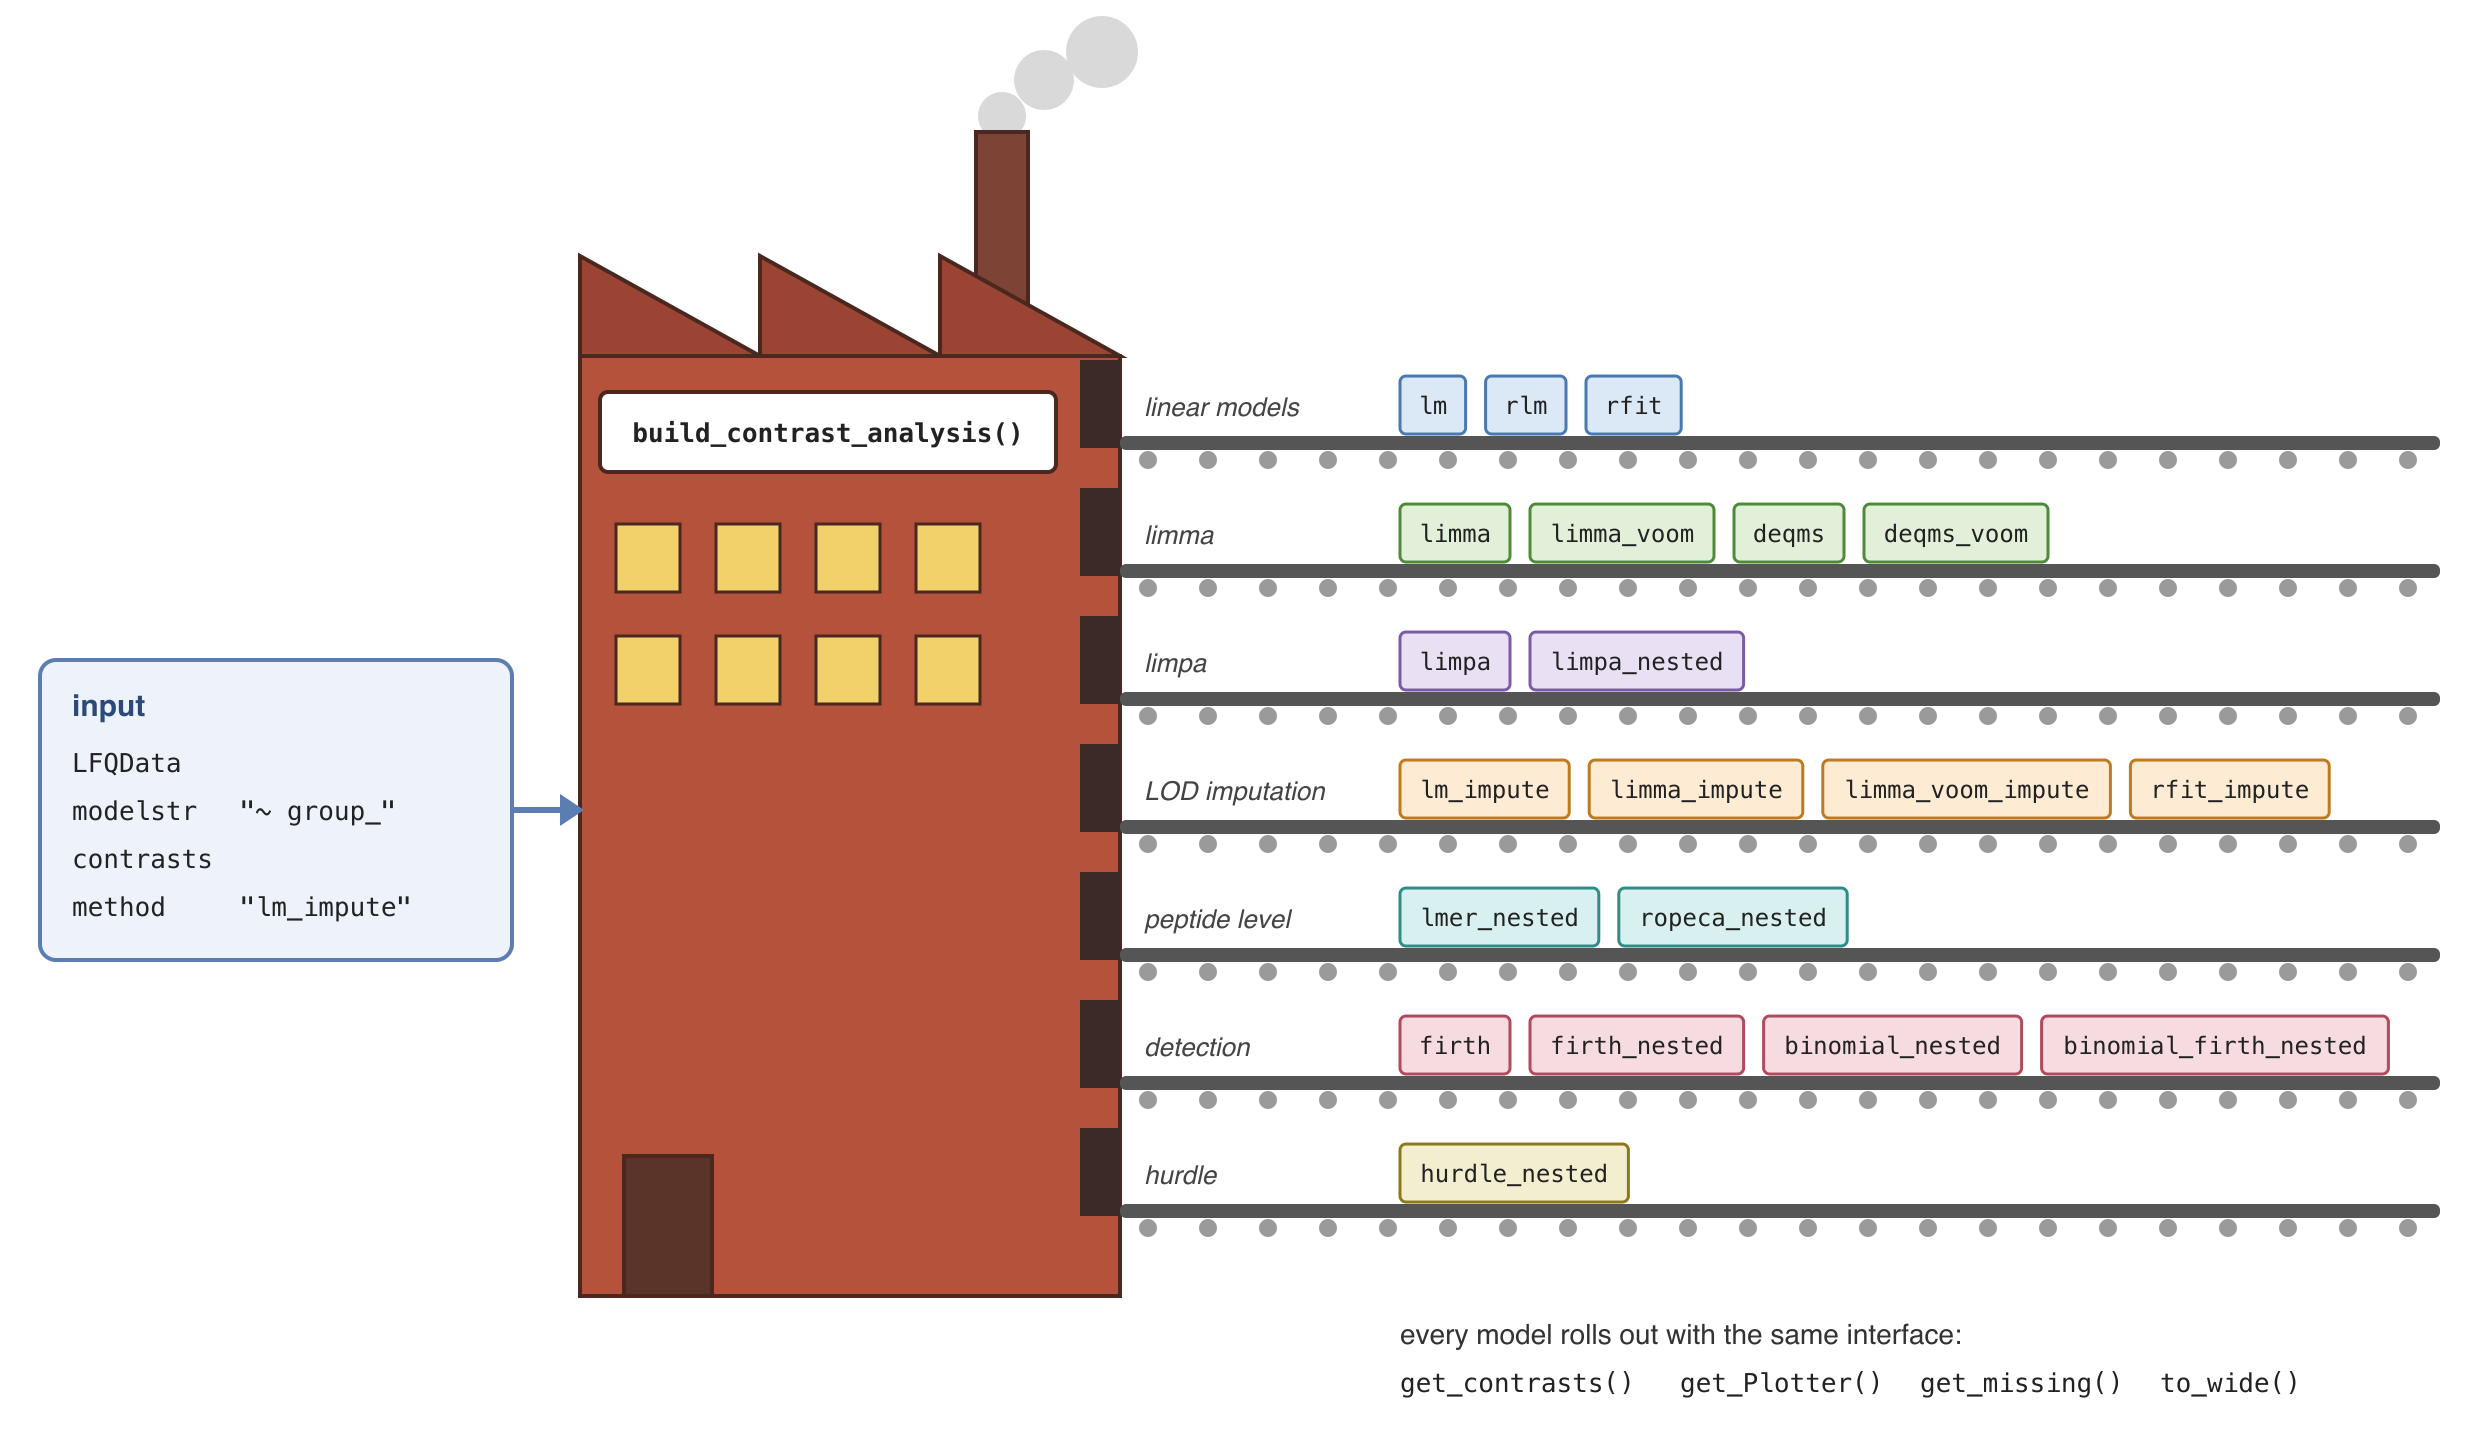
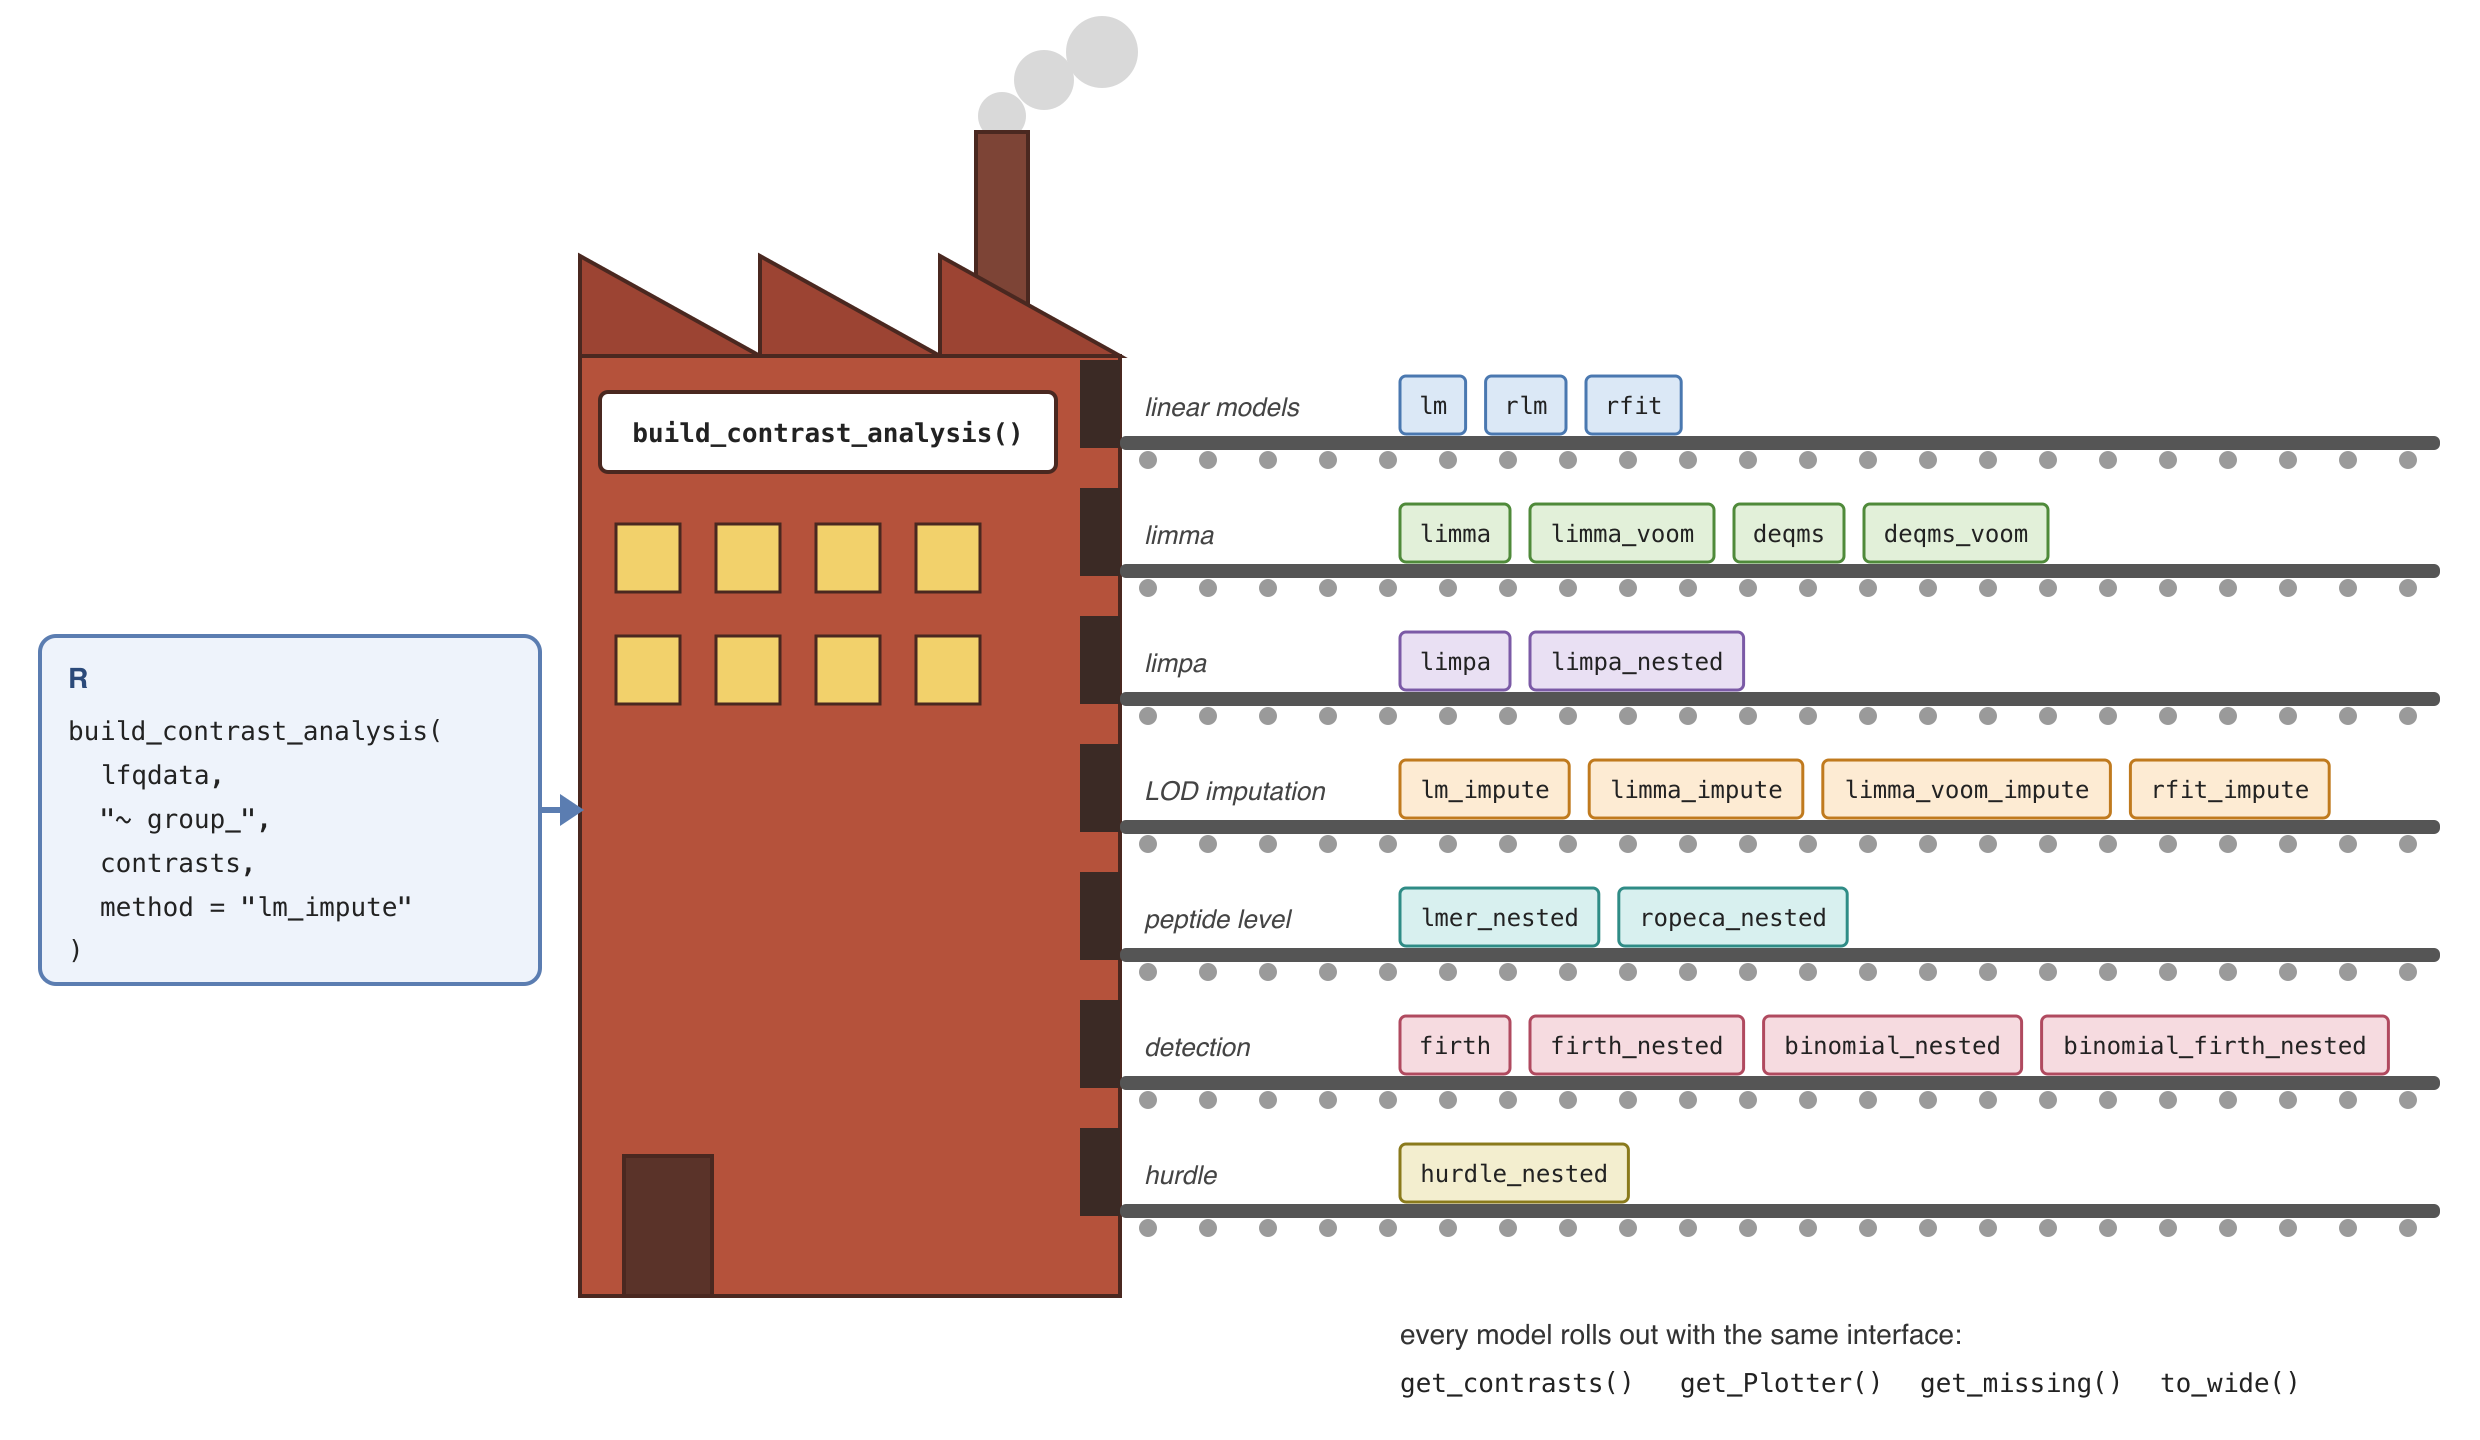
Factory figure: input card shows the build_contrast_analysis() call

Changed region(s): [[0.0, 0.4375, 0.2173, 0.6875]]

diff --git a/data-raw/make_factory_svg.py b/data-raw/make_factory_svg.py
@@ -45,14 +45,13 @@ for row_y in (262, 318):
         add(f'<rect x="{x}" y="{row_y}" width="32" height="34" fill="#f2d16b" stroke="#4a2820" stroke-width="1.5"/>')
 add('<rect x="312" y="578" width="44" height="70" fill="#5a3329" stroke="#4a2820" stroke-width="2"/>')
 
-# input card and arrow
-add('<rect x="20" y="330" width="236" height="150" rx="8" fill="#eef3fb" stroke="#5b7db1" stroke-width="2"/>')
-add('<text x="36" y="358" font-size="15" font-weight="bold" fill="#2b4a7a">input</text>')
-for i, (name, value) in enumerate([("LFQData", ""), ("modelstr", '"~ group_"'), ("contrasts", ""), ("method", '"lm_impute"')]):
-    add(f'<text x="36" y="{386 + i * 24}" font-family="{MONO}" font-size="13" fill="#222">{name}</text>')
-    if value:
-        add(f'<text x="120" y="{386 + i * 24}" font-family="{MONO}" font-size="13" fill="#222">{value}</text>')
-add('<line x1="256" y1="405" x2="280" y2="405" stroke="#5b7db1" stroke-width="3"/>')
+# input card: the R call, and an arrow into the factory
+add('<rect x="20" y="318" width="250" height="174" rx="8" fill="#eef3fb" stroke="#5b7db1" stroke-width="2"/>')
+add('<text x="34" y="344" font-size="14" font-weight="bold" fill="#2b4a7a">R</text>')
+call = [(34, "build_contrast_analysis("), (50, "lfqdata,"), (50, '"~ group_",'), (50, "contrasts,"), (50, 'method = "lm_impute"'), (34, ")")]
+for i, (x, line) in enumerate(call):
+    add(f'<text x="{x}" y="{370 + i * 22}" font-family="{MONO}" font-size="13" fill="#222">{line}</text>')
+add('<line x1="270" y1="405" x2="280" y2="405" stroke="#5b7db1" stroke-width="3"/>')
 add('<polygon points="280,397 292,405 280,413" fill="#5b7db1"/>')
 
 # conveyor lanes with crates
